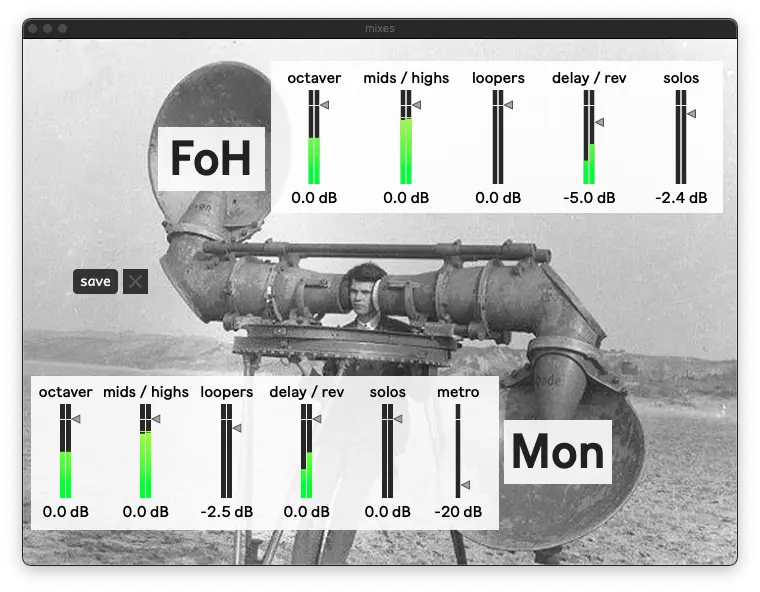
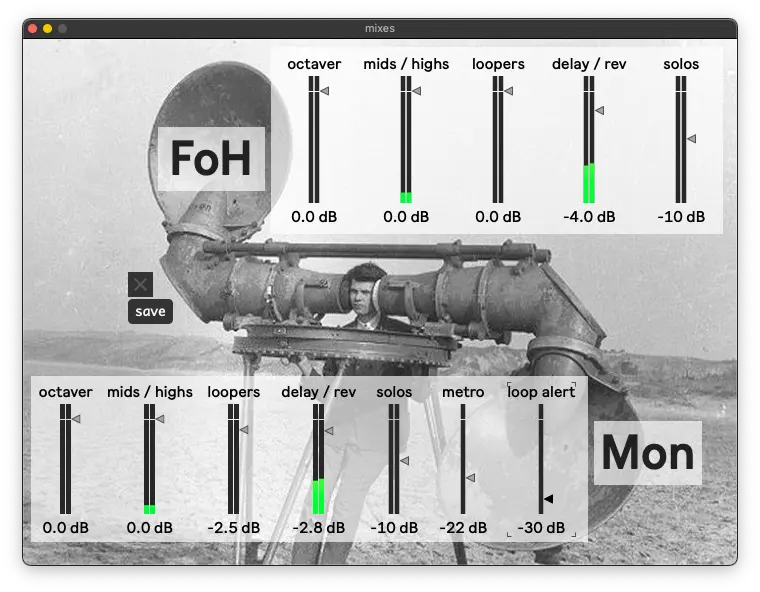
update monitor mix screenshot & description

diff --git a/docs/content/monitor.rst b/docs/content/monitor.rst
@@ -1,13 +1,11 @@
-Monitor Mix
-===========
+Monitor & Front of House Mix
+============================
 
-Monitor mixes differ from "front of house" mixes 
-in that they focus on the performing musician's ears 
-instead of the audience's. By default, the loopers 
-are quieter in the monitor mix than the FoH mix, 
-and the solo and delay FX are louder in the 
-monitor mix than the FoH mix. The monitor mix also 
-includes a :ref:`metronome <Metronome>`, while the FoH mix does not.
+This window lets you set the levels for the Monitor mix and the Front of House mix.
+
+The monitor mix includes a :ref:`metronome <Metronome>` click, and a :ref:`looper <Loopers>` alert.
+
+Generally, for the monitor mix, the loopers should be a bit quieter, and the solos and delays should be louder.
 
 .. image:: media/monitor.webp
    :width: 100%
@@ -16,7 +14,14 @@ includes a :ref:`metronome <Metronome>`, while the FoH mix does not.
 
 |
 
-.. note::
+The FoH mix then goes through a limiter, 
+and the monitor mix goes through a limiter and an EQ, 
+which can be accessed near the bottom of the :ref:`Main Window <Main Window>`.
 
-   The metronome can also be sent to its own external audio output 
-   in the :ref:`Audio I/O Status <Audio IO Status>` window.
+The following output channels are set in the :ref:`Audio I/O Status <Audio IO Status>` window:
+
+   - The FoH mix's audio output channels can be set via the "Main L" and "Main R" Output Mappings.
+   
+   - The monitor mix's audio output channels can be set via the "Monitor L" and "Monitor R" Output Mappings
+   
+   - The metronome's audio output channel can be set via the "Metronome Click" Output Mapping.
